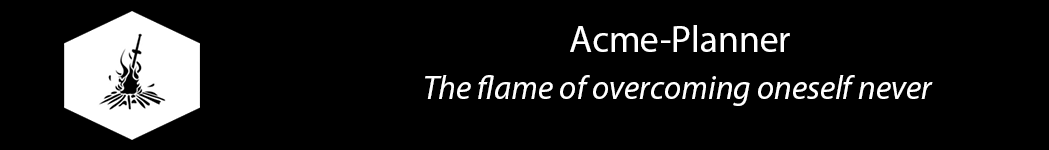
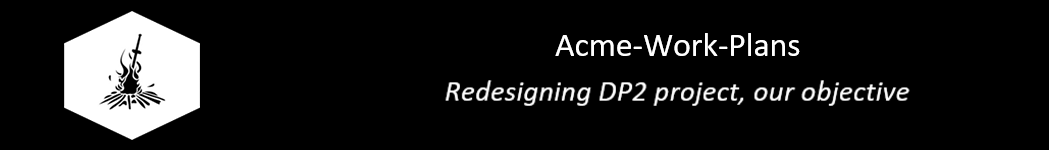
Updated references of Acme Planner

Changed region(s): [[0.3966, 0.5067, 0.8847, 0.72], [0.5186, 0.16, 0.7626, 0.3733]]

diff --git a/src/test/java/acme/testing/AcmeWorkPlansTest.java b/src/test/java/acme/testing/AcmeWorkPlansTest.java
@@ -15,7 +15,7 @@ package acme.testing;
 import org.hibernate.internal.util.StringHelper;
 import org.junit.jupiter.api.BeforeAll;
 
-public abstract class AcmePlannerTest extends AcmeTest {
+public abstract class AcmeWorkPlansTest extends AcmeTest {
 
 	// Internal state ---------------------------------------------------------
 
@@ -26,7 +26,7 @@ public abstract class AcmePlannerTest extends AcmeTest {
 	public void beforeAll() {
 		super.beforeAll();
 
-		super.setBaseCamp("http", "localhost", "8080", "/Acme-Planner", "/master/welcome", "?language=en&debug=true");
+		super.setBaseCamp("http", "localhost", "8080", "/Acme-Work-Plans", "/master/welcome", "?language=en&debug=true");
 		super.setAutoPausing(false);
 		
 		this.navigateHome();

diff --git a/src/test/java/acme/testing/authenticated/management/AuthenticatedBecomeManagementCreateTest.java b/src/test/java/acme/testing/authenticated/management/AuthenticatedBecomeManagementCreateTest.java
@@ -3,9 +3,9 @@ package acme.testing.authenticated.management;
 import org.junit.jupiter.api.Order;
 import org.junit.jupiter.api.Test;
 
-import acme.testing.AcmePlannerTest;
+import acme.testing.AcmeWorkPlansTest;
 
-public class AuthenticatedBecomeManagementCreateTest extends AcmePlannerTest {
+public class AuthenticatedBecomeManagementCreateTest extends AcmeWorkPlansTest {
 	
 	// This test case checks the correct update in the role of the user, beign after that a manager. After updating this value, 
 	// it is expected to return to the initial view of the application, with the extra option Manager in the menu.

diff --git a/src/test/java/acme/testing/authenticated/userAccount/AuthenticatedUserAccountUpdateTest.java b/src/test/java/acme/testing/authenticated/userAccount/AuthenticatedUserAccountUpdateTest.java
@@ -4,9 +4,9 @@ import org.junit.jupiter.api.Order;
 import org.junit.jupiter.params.ParameterizedTest;
 import org.junit.jupiter.params.provider.CsvFileSource;
 
-import acme.testing.AcmePlannerTest;
+import acme.testing.AcmeWorkPlansTest;
 
-public class AuthenticatedUserAccountUpdateTest extends AcmePlannerTest{
+public class AuthenticatedUserAccountUpdateTest extends AcmeWorkPlansTest{
 	
 	// This test case checks the correct update the details of an account. After updating these values, 
 	// it is expected to return to the initial view of the application

diff --git a/src/test/java/acme/testing/authenticated/task/AuthenticatedTaskListTest.java b/src/test/java/acme/testing/authenticated/task/AuthenticatedTaskListTest.java
@@ -4,9 +4,9 @@ import org.junit.jupiter.api.Order;
 import org.junit.jupiter.params.ParameterizedTest;
 import org.junit.jupiter.params.provider.CsvFileSource;
 
-import acme.testing.AcmePlannerTest;
+import acme.testing.AcmeWorkPlansTest;
 
-public class AuthenticatedTaskListTest extends AcmePlannerTest {
+public class AuthenticatedTaskListTest extends AcmeWorkPlansTest {
 	// Test cases -------------------------------------------------------------
 	// This test case checks the correct listing of a task. It is checked that the list values 
 	// are correct

diff --git a/src/test/java/acme/testing/management/task/ManagementTaskListTest.java b/src/test/java/acme/testing/management/task/ManagementTaskListTest.java
@@ -4,9 +4,9 @@ import org.junit.jupiter.api.Order;
 import org.junit.jupiter.params.ParameterizedTest;
 import org.junit.jupiter.params.provider.CsvFileSource;
 
-import acme.testing.AcmePlannerTest;
+import acme.testing.AcmeWorkPlansTest;
 
-public class ManagementTaskListTest extends AcmePlannerTest {
+public class ManagementTaskListTest extends AcmeWorkPlansTest {
 	// Test cases -------------------------------------------------------------
 	// This test case checks the correct listing of a task. It is checked that the list values 
 	// are correct

diff --git a/src/test/java/acme/testing/management/task/ManagementTaskDeleteTest.java b/src/test/java/acme/testing/management/task/ManagementTaskDeleteTest.java
@@ -4,10 +4,10 @@ import org.junit.jupiter.api.Order;
 import org.junit.jupiter.params.ParameterizedTest;
 import org.junit.jupiter.params.provider.CsvFileSource;
 
-import acme.testing.AcmePlannerTest;
+import acme.testing.AcmeWorkPlansTest;
 
 
-public class ManagementTaskDeleteTest extends AcmePlannerTest{
+public class ManagementTaskDeleteTest extends AcmeWorkPlansTest{
 	//Test that checks a task delete successfully
 	@ParameterizedTest
 	@CsvFileSource(resources="/management/task/delete-task-positive.csv", encoding = "utf-8", numLinesToSkip=1)

diff --git a/src/test/java/acme/testing/administrator/userAccount/AdministratorUserAccountListTest.java b/src/test/java/acme/testing/administrator/userAccount/AdministratorUserAccountListTest.java
@@ -4,9 +4,9 @@ import org.junit.jupiter.api.Order;
 import org.junit.jupiter.params.ParameterizedTest;
 import org.junit.jupiter.params.provider.CsvFileSource;
 
-import acme.testing.AcmePlannerTest;
+import acme.testing.AcmeWorkPlansTest;
 
-public class AdministratorUserAccountListTest extends AcmePlannerTest{
+public class AdministratorUserAccountListTest extends AcmeWorkPlansTest{
 	
 	// This test case checks administrator user account list correctly. 
 	// It is expected that when an administrator try to enter the user accounts is listed

diff --git a/src/test/java/acme/testing/management/task/ManagementTaskUpdateTest.java b/src/test/java/acme/testing/management/task/ManagementTaskUpdateTest.java
@@ -4,9 +4,9 @@ import org.junit.jupiter.api.Order;
 import org.junit.jupiter.params.ParameterizedTest;
 import org.junit.jupiter.params.provider.CsvFileSource;
 
-import acme.testing.AcmePlannerTest;
+import acme.testing.AcmeWorkPlansTest;
 
-public class ManagementTaskUpdateTest extends AcmePlannerTest {
+public class ManagementTaskUpdateTest extends AcmeWorkPlansTest {
 
 	// Test cases -------------------------------------------------------------
 	// This test case checks the correct update of a task. It is checked that the updated values 

diff --git a/src/test/java/acme/testing/management/task/ManagementTaskShowTest.java b/src/test/java/acme/testing/management/task/ManagementTaskShowTest.java
@@ -4,9 +4,9 @@ import org.junit.jupiter.api.Order;
 import org.junit.jupiter.params.ParameterizedTest;
 import org.junit.jupiter.params.provider.CsvFileSource;
 
-import acme.testing.AcmePlannerTest;
+import acme.testing.AcmeWorkPlansTest;
 
-public class ManagementTaskShowTest extends AcmePlannerTest{
+public class ManagementTaskShowTest extends AcmeWorkPlansTest{
 
 	//This test checks the correct show of the value of a task
 	// It is expected that when it is showed the values fit with the csv values 

diff --git a/src/test/java/acme/testing/management/workplan/ManagementWorkPlanUpdateTest.java b/src/test/java/acme/testing/management/workplan/ManagementWorkPlanUpdateTest.java
@@ -4,9 +4,9 @@ import org.junit.jupiter.api.Order;
 import org.junit.jupiter.params.ParameterizedTest;
 import org.junit.jupiter.params.provider.CsvFileSource;
 
-import acme.testing.AcmePlannerTest;
+import acme.testing.AcmeWorkPlansTest;
 
-public class ManagementWorkPlanUpdateTest extends AcmePlannerTest{
+public class ManagementWorkPlanUpdateTest extends AcmeWorkPlansTest{
 	
 	//Test that checks a workplan updates correctly. The test just fills the input boxes with common data.
 	@ParameterizedTest

diff --git a/src/test/java/acme/testing/administrator/workplanDashboard/AdministratorWorkPlanDashboardShowTest.java b/src/test/java/acme/testing/administrator/workplanDashboard/AdministratorWorkPlanDashboardShowTest.java
@@ -6,9 +6,9 @@ import org.junit.jupiter.params.ParameterizedTest;
 import org.junit.jupiter.params.provider.CsvFileSource;
 import org.openqa.selenium.By;
 
-import acme.testing.AcmePlannerTest;
+import acme.testing.AcmeWorkPlansTest;
 
-public class AdministratorWorkPlanDashboardShowTest extends AcmePlannerTest{
+public class AdministratorWorkPlanDashboardShowTest extends AcmeWorkPlansTest{
 
 	// Lifecycle management ---------------------------------------------------
 	

diff --git a/src/test/java/acme/testing/administrator/threshold/AdministratorThresholdResetTest.java b/src/test/java/acme/testing/administrator/threshold/AdministratorThresholdResetTest.java
@@ -16,9 +16,9 @@ import org.junit.jupiter.api.Order;
 import org.junit.jupiter.params.ParameterizedTest;
 import org.junit.jupiter.params.provider.CsvFileSource;
 
-import acme.testing.AcmePlannerTest;
+import acme.testing.AcmeWorkPlansTest;
 
-public class AdministratorThresholdResetTest extends AcmePlannerTest {
+public class AdministratorThresholdResetTest extends AcmeWorkPlansTest {
 
 	// Lifecycle management ---------------------------------------------------
 	
